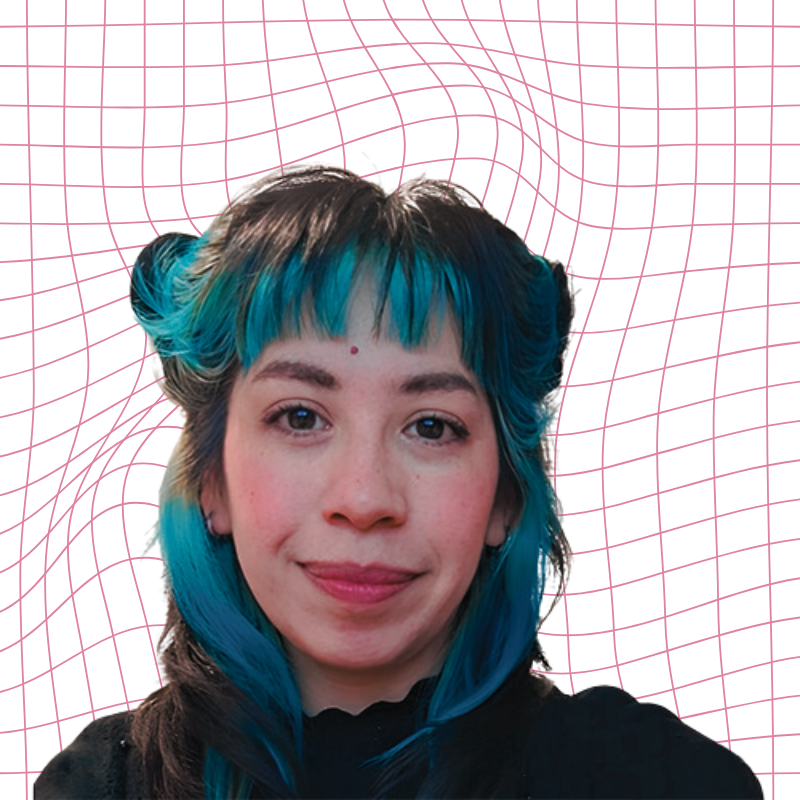
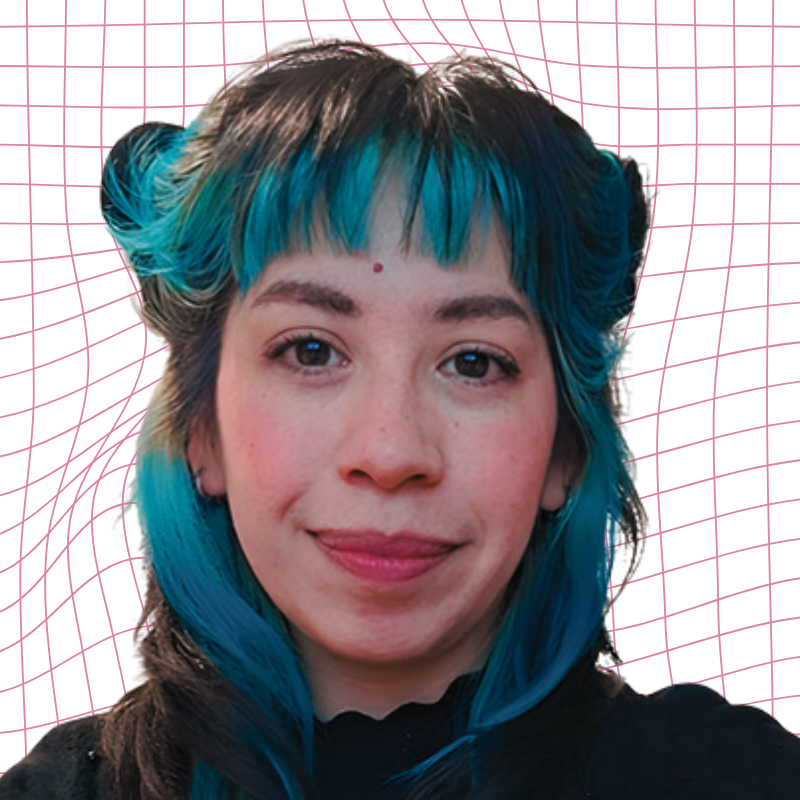
update: cambié foto de perfil y sus medidas en css

diff --git a/index.html b/index.html
@@ -69,7 +69,7 @@
         </div>
 
         <figure class="col-md-6 d-flex align-items-center justify-content-center">
-          <img src="./assets/img/perfil.png" alt="Foto de perfil" class="img-fluid border rounded mt-md-5"
+          <img src="./assets/img/perfil.png" alt="Foto de perfil" class="foto-perfil img-fluid border rounded mt-md-5"
             style="border-width: 2px;">
         </figure>
       </div>

diff --git a/assets/css/style.css b/assets/css/style.css
@@ -122,3 +122,7 @@ font-size: 0.8rem;
   display: flex;
 }
 
+.foto-perfil {
+  width: 70%;
+}
+
